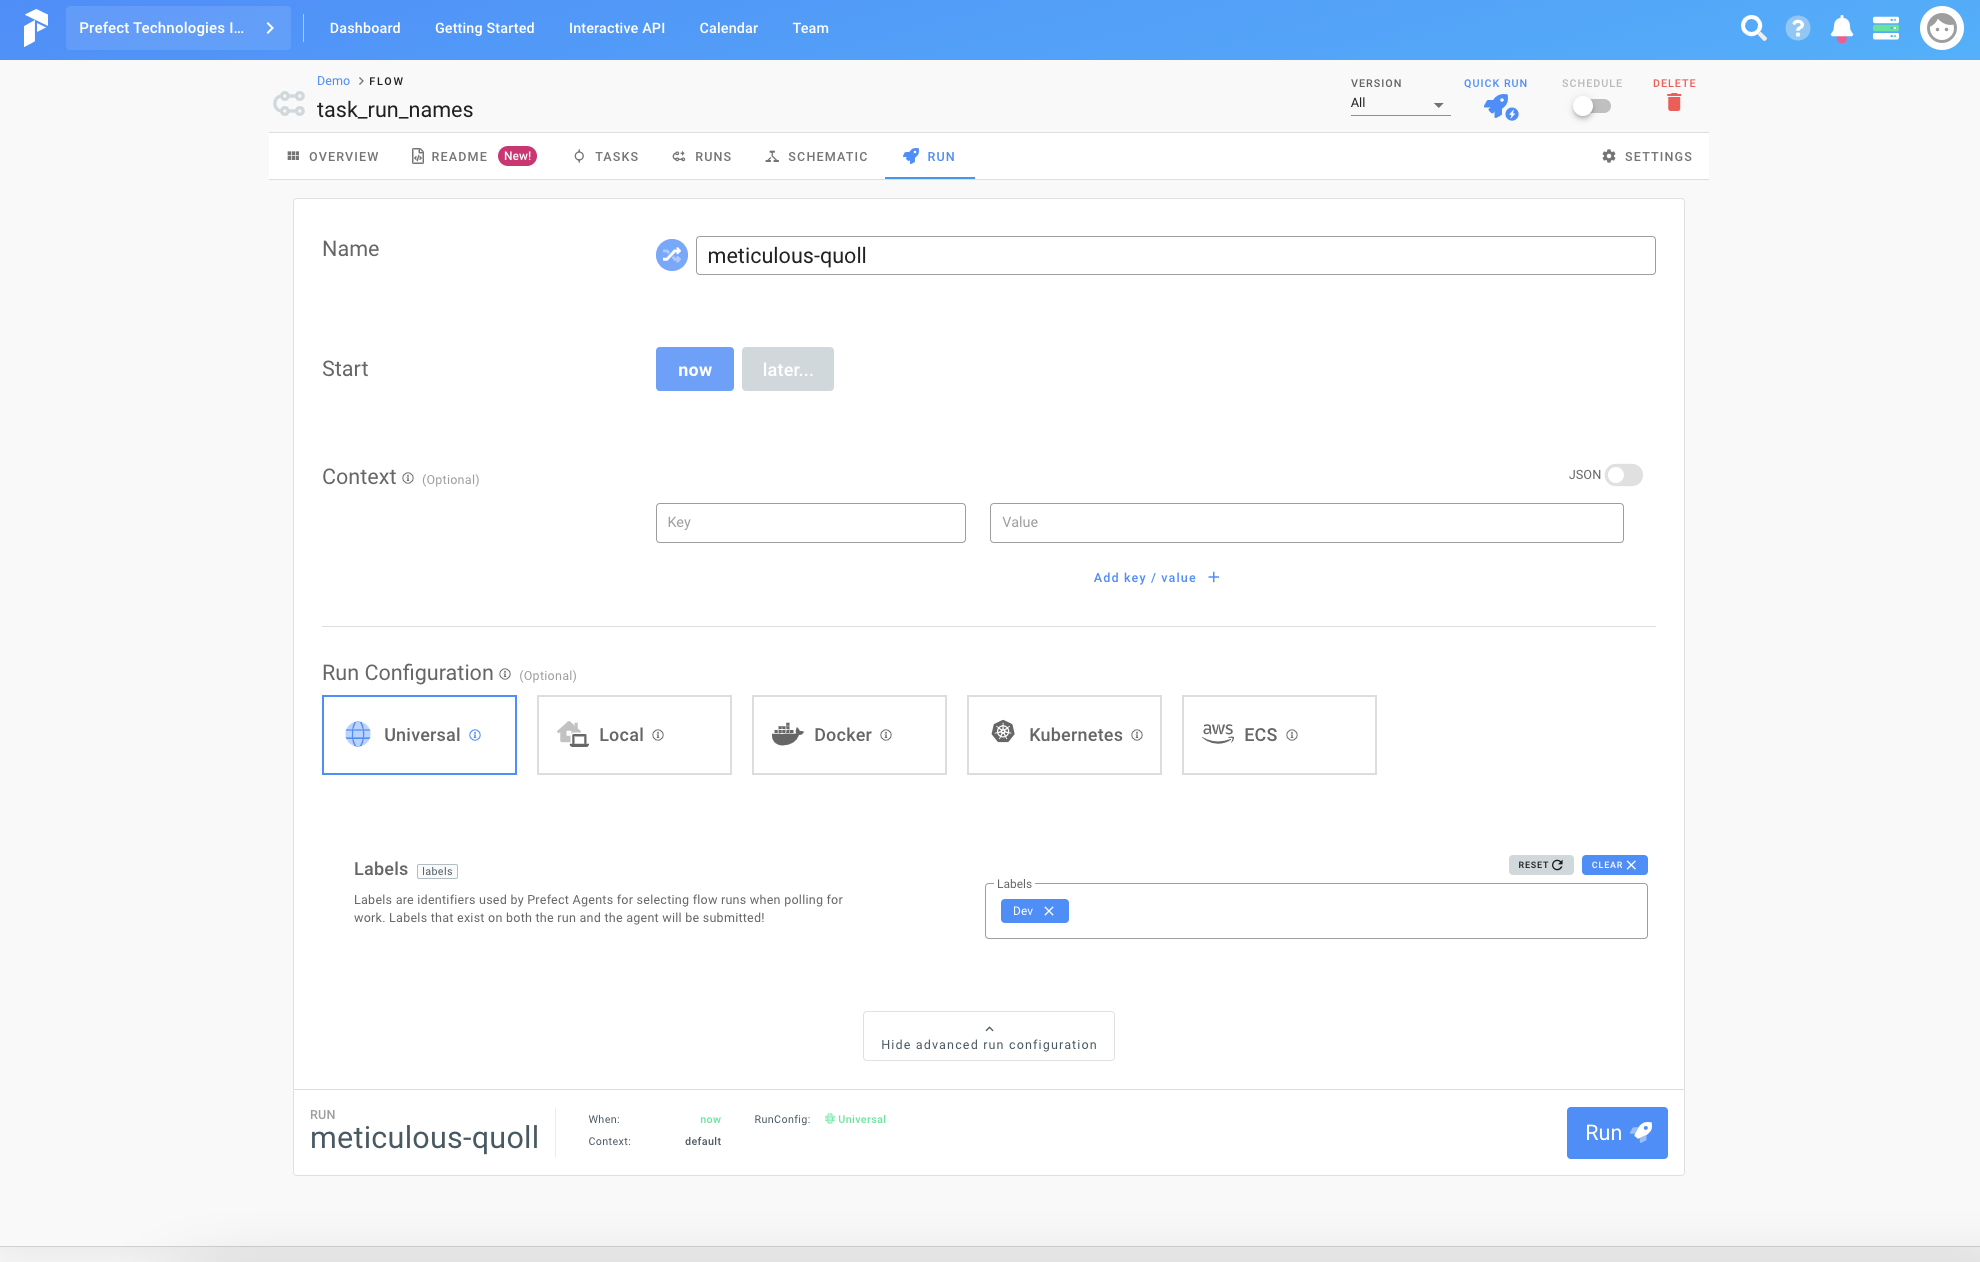
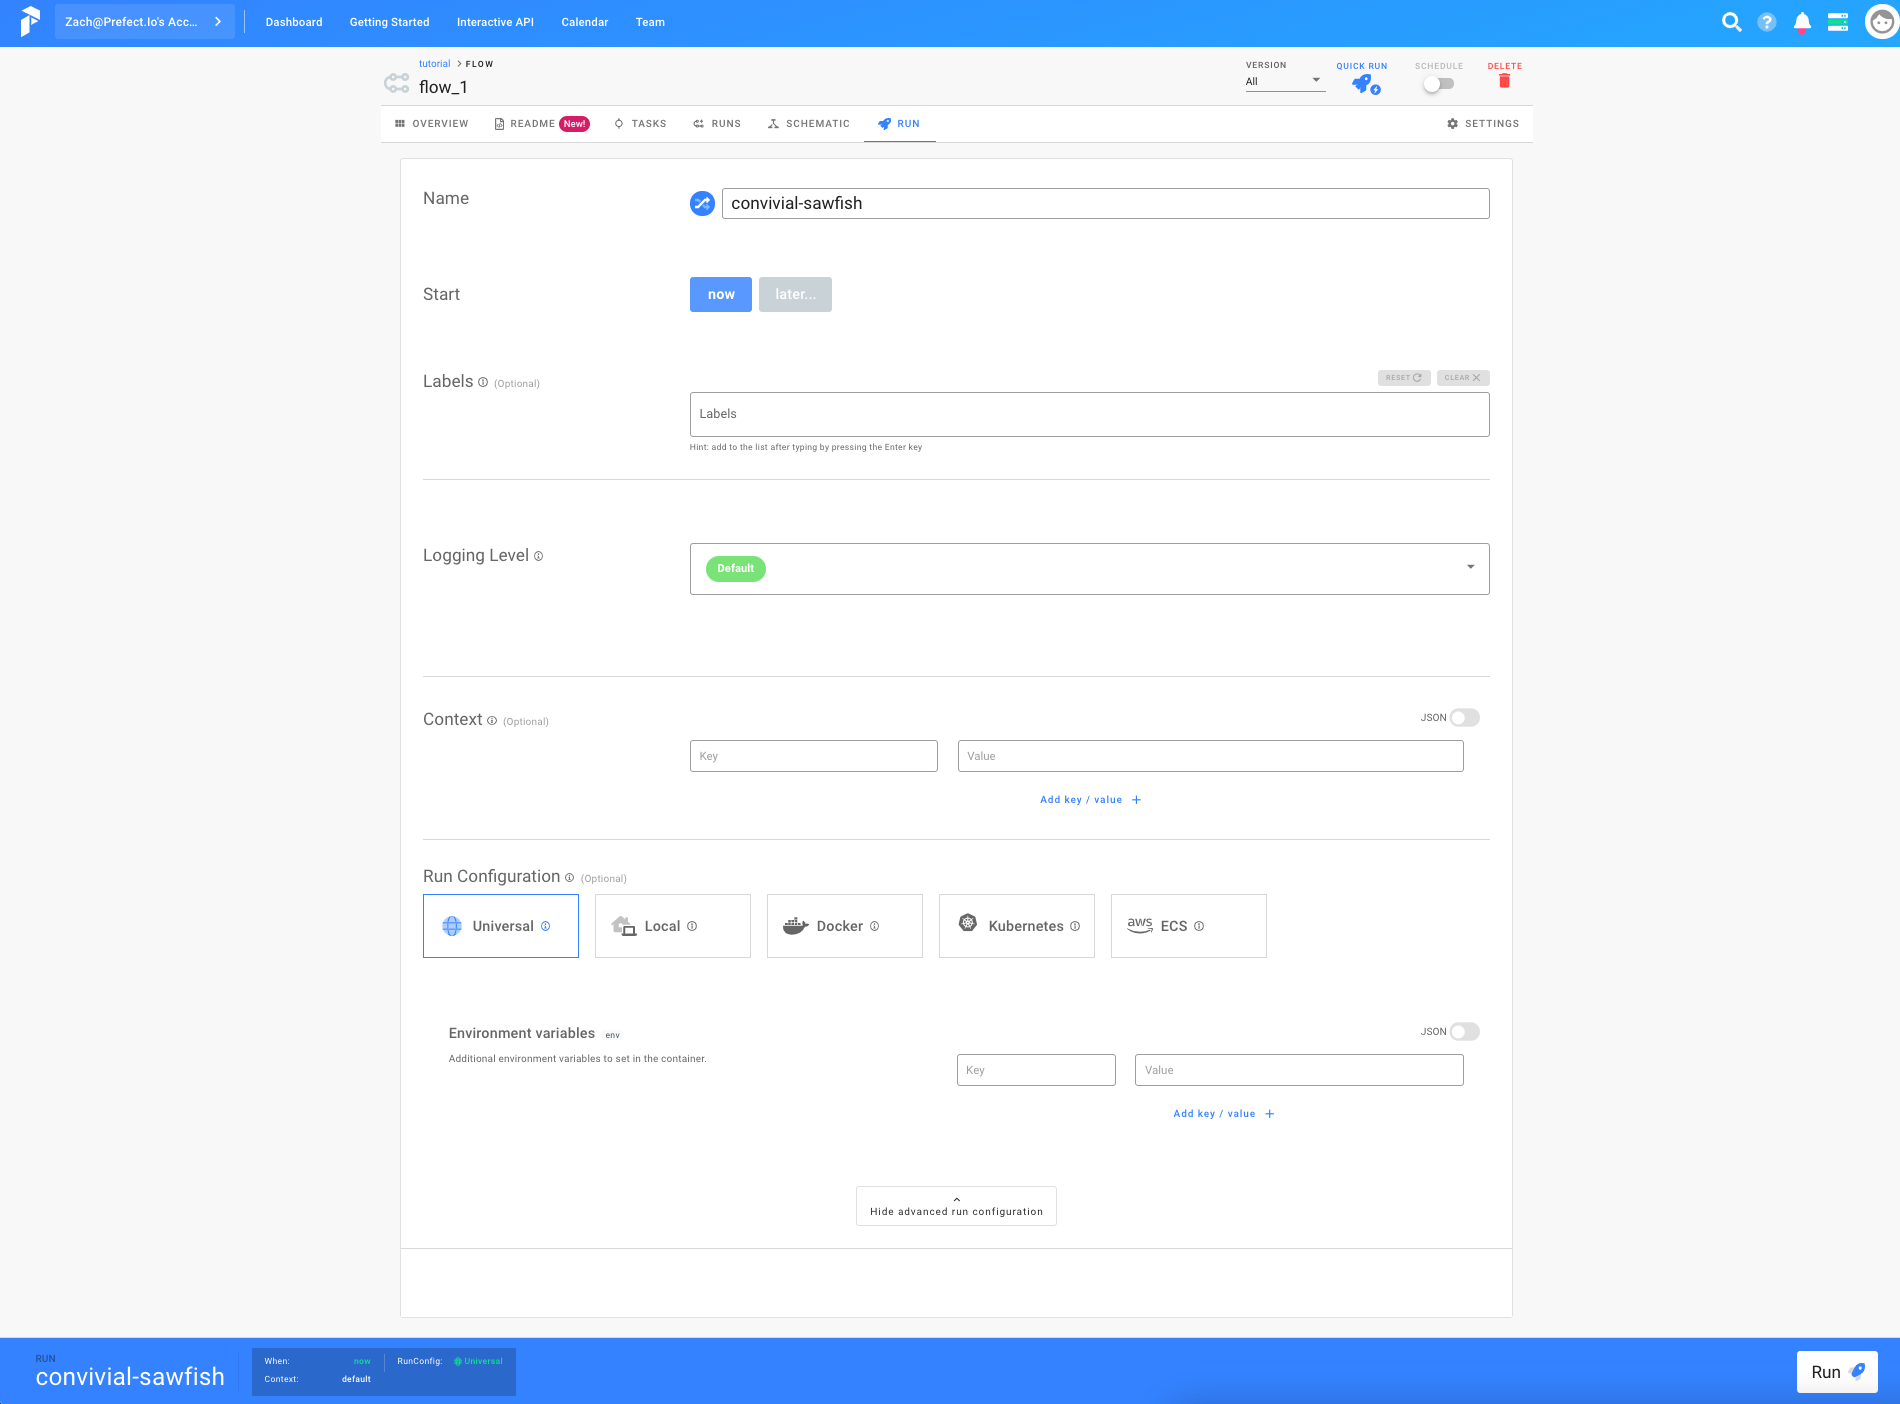
Update ui flow run docs

diff --git a/docs/orchestration/ui/flow.md b/docs/orchestration/ui/flow.md
@@ -31,7 +31,13 @@ You can use markdown to add a Read Me description for your flow group in the flo
 
 ## Run
 
-From this page, you can schedule a new run of your flow for now or some point in the future. You may provide parameter values, if appropriate; update your run configuration; and give your run a name for easy queries or retrieval in the future.
+From this page, you can schedule a new run of your flow for now or some point in the future.
+
+You can also customize the new run of your flow, including:
+- Providing parameter values
+- Updating your run configuration
+- Specifying logging level
+- Customizing your run name for easy queries or retrieval in the future
 
 <div class="add-shadow">
   <img src="/orchestration/ui/flow-run.png">
